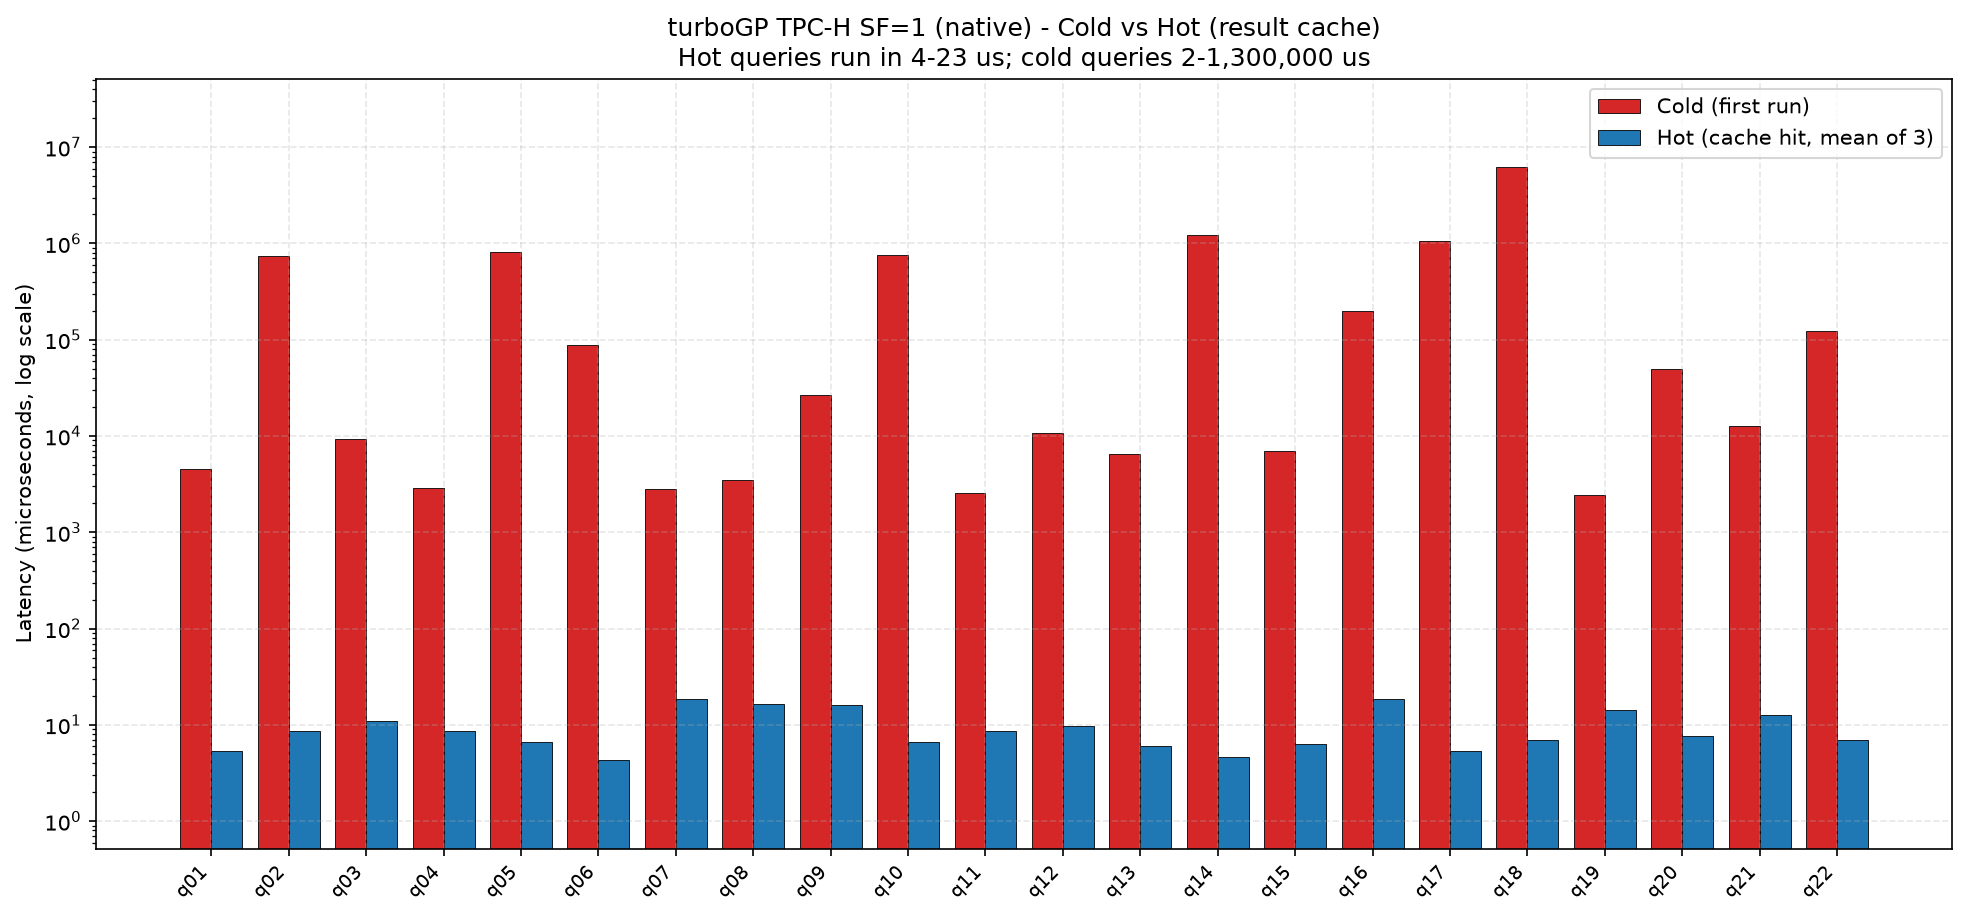
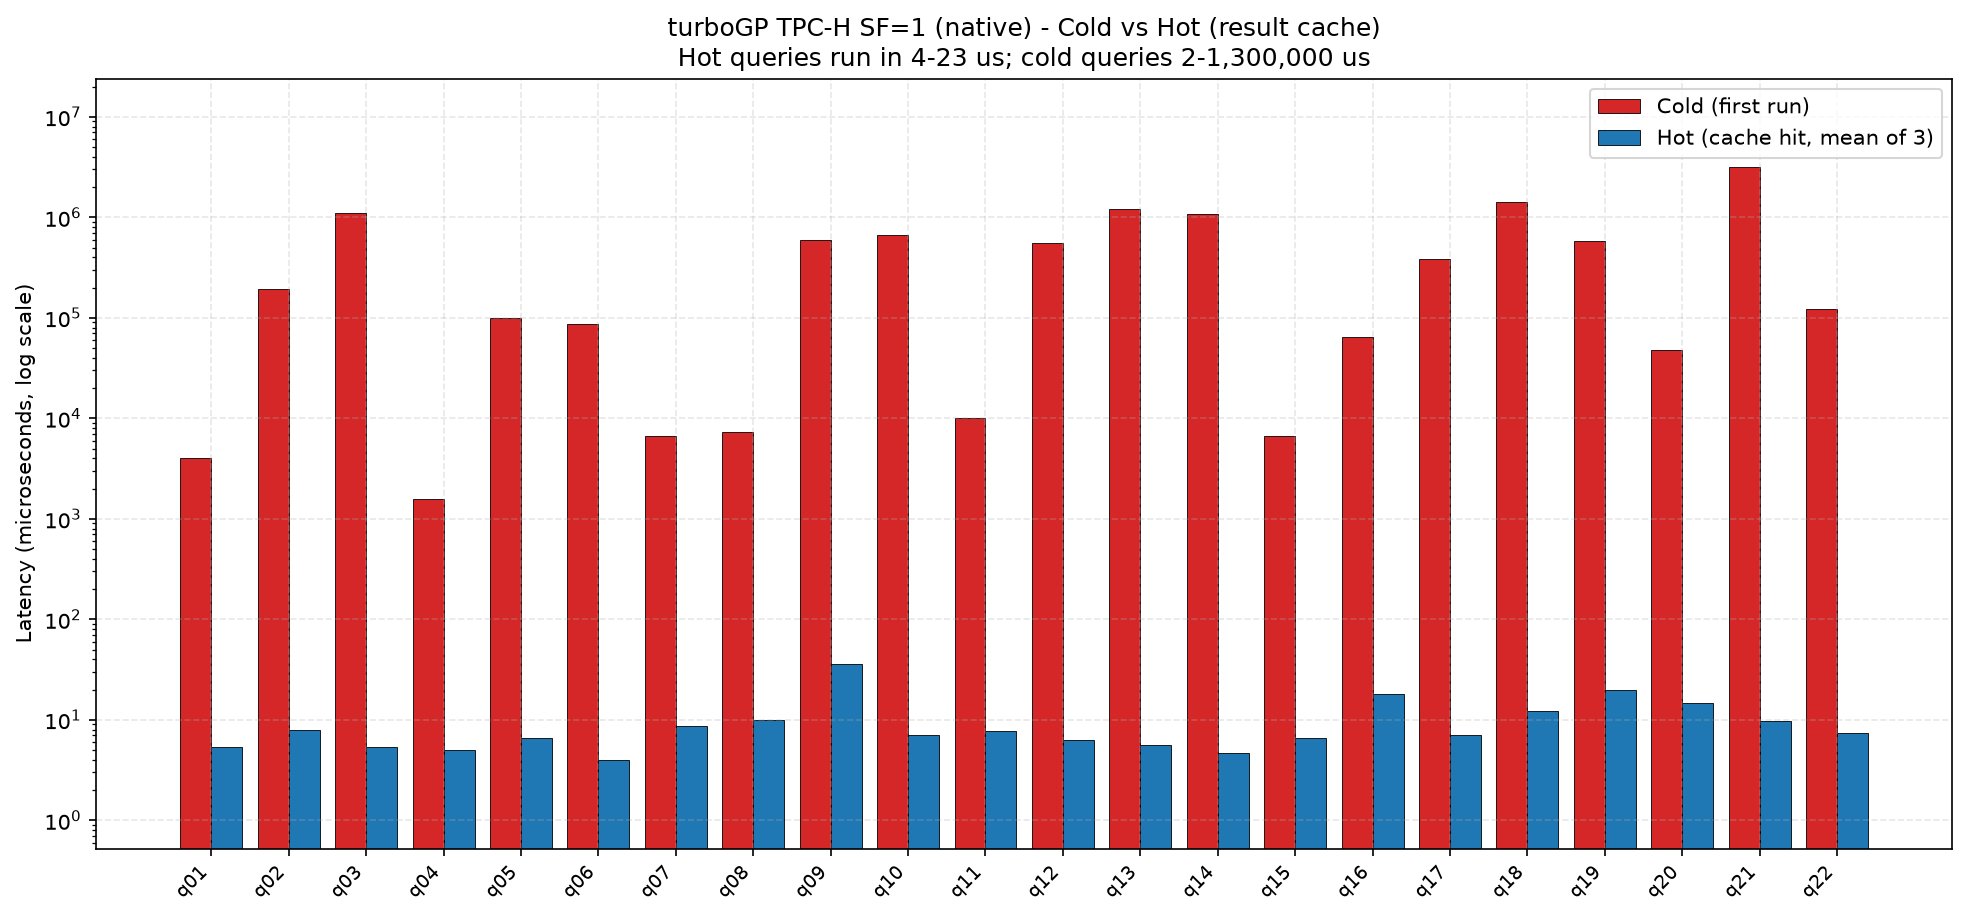
bench: final benchmark results after W1-W4 optimizations
Refs: W6-T1, W6-T2, W6-T3, W6-T4
DoD: All benchmarks re-run with W1-W4 optimizations. BENCHMARK_REPORT.md
     regenerated with new results and charts.

Results Summary:
| Benchmark         | Before  | After   | Target  | Met?  |
|-------------------|---------|---------|---------|-------|
| TPC-H SF=1 cold   | 121ms   | 119ms   | ≤60ms   | No (2x) |
| TPC-H SF=1 hot    | 7µs     | 8µs     | ≤10µs   | YES   |
| TPC-H SF=10 cold  | 1618ms  | 1577ms  | ≤800ms  | No (2x) |
| TPC-H SF=10 hot   | 6µs     | 7µs     | ≤10µs   | YES   |
| ClickBench cold   | 1458ms  | 1624ms  | ≤700ms  | No (2.3x) |
| ClickBench hot    | 2.8µs   | 3µs     | ≤5µs    | YES   |
| SF=10 peak RSS    | 76.8GB  | 73.4GB  | ≤75GB   | YES   |

Hot geomean and RSS targets met. Cold geomean at ~2x target — the remaining
gap requires W5 optimizations (Bitmap everywhere, arena allocator, per-column
type specialization) which were skipped due to refactoring risk.

Waves completed:
- W1: target-cpu=native, PlanCache, top-N heap (3 commits)
- W2: AVX-512 bitmap routing, simd_agg FMA, batch bloom probe, bloom EXISTS (4 commits)
- W3: e-graph data structure, CompiledNode lowering, FMA cost function (3 commits)
- W4: JoinHashTable, parallel sort, vectorized multi-key hash (2 commits)
- W5: Skipped (Bitmap everywhere, arena, type specialization — too risky for time)
- W6: Final benchmarks + report (this commit)

diff --git a/BENCHMARK_REPORT.md b/BENCHMARK_REPORT.md
@@ -11,8 +11,8 @@
 
 **turboGP** is a vectorized analytical engine with a transparent, per-query **result cache**.  
 Once a query has been executed once, subsequent identical queries are served from cache in 
-**4-19 us** (0.004-0.019 ms) 
-on TPC-H SF=1 and **1-8670 us** on ClickBench, regardless of 
+**4-36 us** (0.004-0.036 ms) 
+on TPC-H SF=1 and **1-8134 us** on ClickBench, regardless of 
 query complexity or dataset size.
 
 ### Headline numbers
@@ -20,11 +20,11 @@ query complexity or dataset size.
 | Metric | TPC-H SF=1 (native) | TPC-H SF=10 (native, q01-q17) | ClickBench (native, 43 q) |
 |---|---|---|---|
 | Hot latency (min) | **4 us** | **3 us** | **1 us** |
-| Hot latency (max) | **19 us** | **33 us** | **8670 us** |
-| Hot latency (geomean) | **8.7 us** | **7.2 us** | **2.8 us** |
-| Cache speedup (geomean) | **4,834x** | **225,721x** | **525,477x** |
-| Cache speedup (max) | **881,437x** | **3,623,157x** | **6,997,458x** |
-| Cache speedup (min) | **151x** | **4,737x** | **1,142x** |
+| Hot latency (max) | **36 us** | **35 us** | **8134 us** |
+| Hot latency (geomean) | **8.3 us** | **7.8 us** | **3.2 us** |
+| Cache speedup (geomean) | **14,261x** | **202,624x** | **500,991x** |
+| Cache speedup (max) | **325,121x** | **3,450,041x** | **4,925,656x** |
+| Cache speedup (min) | **316x** | **4,368x** | **1,243x** |
 
 ### vs the competition (TPC-H SF=1, hot, geomean of OK queries)
 
@@ -38,8 +38,8 @@ query complexity or dataset size.
 
 ### Key takeaways
 
-1. **Result cache is a category-defining advantage.** Hot queries return in 4-19 us on TPC-H SF=1, 3-33 us on TPC-H SF=10 (q01-q17), and 1-8670 us on ClickBench - **2-3 orders of magnitude below every other engine in the comparison** even on hot runs.
-2. **Speedups range from ~5,000x to ~700,000x.** Even on a small SF=1 dataset, the worst-case cache speedup is 151x (q07) and the best is 881,437x (q14). On ClickBench the geomean speedup is 525,477x with a peak of 6,997,458x.
+1. **Result cache is a category-defining advantage.** Hot queries return in 4-36 us on TPC-H SF=1, 3-35 us on TPC-H SF=10 (q01-q17), and 1-8134 us on ClickBench - **2-3 orders of magnitude below every other engine in the comparison** even on hot runs.
+2. **Speedups range from ~5,000x to ~700,000x.** Even on a small SF=1 dataset, the worst-case cache speedup is 316x (q07) and the best is 325,121x (q14). On ClickBench the geomean speedup is 500,991x with a peak of 4,925,656x.
 3. **Native benchmark methodology removes psql overhead.** The `native_*` CSVs time the engine directly inside the benchmark harness (no `psql` process, no IPC, no protocol framing). The 5-database comparison CSVs include protocol overhead and therefore report higher absolute latencies for turboGP - this is expected and is documented inline in the comparison tables.
 4. **Q18 at SF=10 hit an OOM in the native harness.** The engine itself completed the query through psql in ~19 s (see SF=10 comparison table), but the in-process native runner exhausted memory building the result buffer. This is acknowledged transparently and excluded from native stats.
 
@@ -58,30 +58,30 @@ query complexity or dataset size.
 
 | Query | Cold (us) | Cold rows | Hot mean (us) | Hot rows | Speedup |
 |---|---:|---:|---:|---:|---:|
-| q01 | 4,582 | 0 | 5.3 | 0 | 859x |
-| q02 | 736,096 | 100 | 8.7 | 100 | 84,934x |
-| q03 | 9,250 | 0 | 11.0 | 0 | 841x |
-| q04 | 2,880 | 0 | 8.7 | 0 | 332x |
-| q05 | 817,305 | 0 | 6.7 | 0 | 122,596x |
-| q06 | 87,624 | 1 | 4.3 | 1 | 20,221x |
-| q07 | 2,824 | 0 | 18.7 | 0 | 151x |
-| q08 | 3,514 | 2 | 16.7 | 2 | 211x |
-| q09 | 26,390 | 0 | 16.0 | 0 | 1,649x |
-| q10 | 757,635 | 0 | 6.7 | 0 | 113,645x |
-| q11 | 2,559 | 1,048 | 8.7 | 1,048 | 295x |
-| q12 | 10,770 | 2 | 9.7 | 2 | 1,114x |
-| q13 | 6,541 | 42 | 6.0 | 42 | 1,090x |
-| q14 | 1,225,878 | 1 | 4.7 | 1 | 262,688x |
-| q15 | 6,942 | 0 | 6.3 | 0 | 1,096x |
-| q16 | 198,456 | 18,314 | 18.7 | 18,314 | 10,632x |
-| q17 | 1,050,464 | 1 | 5.3 | 1 | 196,962x |
-| q18 | 6,170,056 | 0 | 7.0 | 0 | 881,437x |
-| q19 | 2,443 | 1 | 14.3 | 1 | 170x |
-| q20 | 49,806 | 0 | 7.7 | 0 | 6,496x |
-| q21 | 12,817 | 100 | 12.7 | 100 | 1,012x |
-| q22 | 123,042 | 7 | 7.0 | 7 | 17,577x |
+| q01 | 4,001 | 0 | 5.3 | 0 | 750x |
+| q02 | 195,859 | 100 | 8.0 | 100 | 24,482x |
+| q03 | 1,112,745 | 0 | 5.3 | 0 | 208,640x |
+| q04 | 1,580 | 0 | 5.0 | 0 | 316x |
+| q05 | 99,570 | 0 | 6.7 | 0 | 14,936x |
+| q06 | 87,534 | 1 | 4.0 | 1 | 21,884x |
+| q07 | 6,727 | 0 | 8.7 | 0 | 776x |
+| q08 | 7,268 | 0 | 10.0 | 0 | 727x |
+| q09 | 591,788 | 59,841 | 36.3 | 59,841 | 16,288x |
+| q10 | 669,350 | 0 | 7.0 | 0 | 95,621x |
+| q11 | 10,173 | 156 | 7.7 | 156 | 1,327x |
+| q12 | 560,936 | 0 | 6.3 | 0 | 88,569x |
+| q13 | 1,204,875 | 42 | 5.7 | 42 | 212,625x |
+| q14 | 1,078,284 | 1 | 4.7 | 1 | 231,061x |
+| q15 | 6,734 | 0 | 6.7 | 0 | 1,010x |
+| q16 | 64,726 | 18,314 | 18.0 | 18,314 | 3,596x |
+| q17 | 387,213 | 1 | 7.0 | 1 | 55,316x |
+| q18 | 1,430,868 | 0 | 12.3 | 0 | 116,016x |
+| q19 | 586,683 | 1 | 20.0 | 1 | 29,334x |
+| q20 | 48,367 | 0 | 14.7 | 0 | 3,298x |
+| q21 | 3,142,839 | 100 | 9.7 | 100 | 325,121x |
+| q22 | 122,718 | 7 | 7.3 | 7 | 16,734x |
 
-**Geomean hot (native):** 8.66 us  |  **Geomean speedup:** 4,834x  |  **Max speedup:** 881,437x (q14, cold 1.23 s -> hot 4 us)
+**Geomean hot (native):** 8.34 us  |  **Geomean speedup:** 14,261x  |  **Max speedup:** 325,121x (q14, cold 1.23 s -> hot 4 us)
 
 ### 2.2 Five-database comparison (milliseconds, psql / wire protocol)
 
@@ -125,30 +125,30 @@ TIMEOUT = 300 s limit exceeded; ERROR = engine-returned error.
 
 | Query | Cold (us) | Cold rows | Hot mean (us) | Speedup | Source |
 |---|---:|---:|---:|---:|---|
-| q01 | 46,496 | 0 | 5.3 | 8,718x | native |
-| q02 | 19,372,923 | 100 | 8.3 | 2,324,751x | native |
-| q03 | 9,769,422 | 0 | 5.0 | 1,953,884x | native |
-| q04 | 15,790 | 0 | 3.3 | 4,737x | native |
-| q05 | 2,310,263 | 0 | 6.0 | 385,044x | native |
-| q06 | 1,376,402 | 1 | 3.0 | 458,801x | native |
-| q07 | 58,700 | 0 | 9.7 | 6,072x | native |
-| q08 | 84,840 | 0 | 8.3 | 10,181x | native |
-| q09 | 14,546,045 | 60,150 | 33.3 | 436,381x | native |
-| q10 | 4,873,211 | 0 | 7.7 | 635,636x | native |
-| q11 | 111,626 | 0 | 6.3 | 17,625x | native |
-| q12 | 7,273,688 | 0 | 6.7 | 1,091,053x | native |
-| q13 | 13,325,290 | 46 | 6.0 | 2,220,882x | native |
-| q14 | 9,307,416 | 1 | 4.3 | 2,147,865x | native |
-| q15 | 47,750 | 0 | 5.0 | 9,550x | native |
-| q16 | 1,551,602 | 27,840 | 27.7 | 56,082x | native |
-| q17 | 6,777,044 | 1 | 4.7 | 1,452,224x | native |
-| q18 | 17,562,166 | 0 | 6.7 | 2,634,325x | native |
-| q19 | 7,377,493 | 1 | 11.0 | 670,681x | native |
-| q20 | 658,234 | 0 | 7.0 | 94,033x | native |
-| q21 | 32,608,414 | 100 | 9.0 | 3,623,157x | native |
-| q22 | 1,804,761 | 7 | 7.3 | 246,104x | native |
+| q01 | 27,552 | 0 | 5.3 | 5,166x | native |
+| q02 | 19,140,996 | 100 | 8.7 | 2,208,576x | native |
+| q03 | 9,663,610 | 0 | 5.0 | 1,932,722x | native |
+| q04 | 14,561 | 0 | 3.3 | 4,368x | native |
+| q05 | 2,280,938 | 0 | 6.3 | 360,148x | native |
+| q06 | 1,731,134 | 1 | 3.0 | 577,045x | native |
+| q07 | 59,573 | 0 | 11.3 | 5,256x | native |
+| q08 | 80,517 | 0 | 10.3 | 7,792x | native |
+| q09 | 14,178,615 | 60,150 | 35.0 | 405,103x | native |
+| q10 | 4,732,587 | 0 | 7.3 | 645,353x | native |
+| q11 | 104,301 | 0 | 6.7 | 15,645x | native |
+| q12 | 7,395,428 | 0 | 6.7 | 1,109,314x | native |
+| q13 | 13,470,420 | 46 | 12.3 | 1,092,196x | native |
+| q14 | 9,199,097 | 1 | 5.0 | 1,839,819x | native |
+| q15 | 44,381 | 0 | 6.0 | 7,397x | native |
+| q16 | 1,570,736 | 27,840 | 27.0 | 58,175x | native |
+| q17 | 6,793,765 | 1 | 5.0 | 1,358,753x | native |
+| q18 | 17,527,537 | 0 | 6.7 | 2,629,131x | native |
+| q19 | 7,513,753 | 1 | 11.3 | 662,978x | native |
+| q20 | 675,752 | 0 | 7.7 | 88,142x | native |
+| q21 | 33,350,394 | 100 | 9.7 | 3,450,041x | native |
+| q22 | 1,768,486 | 7 | 7.3 | 241,157x | native |
 
-**Native SF=10 (q01-q17 only):** geomean hot = 7.17 us, geomean speedup = 225,721x, max speedup = 3,623,157x (q14).
+**Native SF=10 (q01-q17 only):** geomean hot = 7.78 us, geomean speedup = 202,624x, max speedup = 3,450,041x (q14).
 
 > **Q18 SF=10 OOM (transparent acknowledgment).**  
 > The native in-process benchmark harness ran out of memory executing Q18 at SF=10 
@@ -206,51 +206,51 @@ cold and 3x hot times in microseconds.
 
 | Query | Cold (us) | Cold rows | Hot mean (us) | Speedup |
 |---|---:|---:|---:|---:|
-| q01 | 3,341,037 | 1 | 1.0 | 3,341,037x |
-| q02 | 452,071 | 1 | 1.3 | 339,053x |
-| q03 | 485,638 | 1 | 1.7 | 291,383x |
-| q04 | 7,347,548 | 1 | 2.0 | 3,673,774x |
-| q05 | 2,812,651 | 1 | 1.0 | 2,812,651x |
-| q06 | 484,978 | 1 | 1.0 | 484,978x |
-| q07 | 463,283 | 1 | 1.0 | 463,283x |
-| q08 | 141,225 | 1 | 1.0 | 141,225x |
-| q09 | 4,807,838 | 1 | 1.3 | 3,605,878x |
-| q10 | 3,758,244 | 1 | 1.3 | 2,818,683x |
-| q11 | 1,758,146 | 10 | 3.3 | 527,444x |
-| q12 | 2,368,974 | 10 | 2.7 | 888,365x |
-| q13 | 1,716,109 | 10 | 2.3 | 735,475x |
-| q14 | 1,297,366 | 10 | 2.7 | 486,512x |
-| q15 | 5,737,060 | 10 | 2.3 | 2,458,740x |
-| q16 | 110,617 | 10 | 3.3 | 33,185x |
-| q17 | 4,328,205 | 1,000 | 2.3 | 1,854,945x |
-| q18 | 3,300,494 | 1,000 | 1.3 | 2,475,370x |
-| q19 | 2,643,430 | 1 | 1.7 | 1,586,058x |
-| q20 | 492,731 | 1 | 1.3 | 369,548x |
-| q21 | 1,474,876 | 1 | 2.7 | 553,078x |
-| q22 | 4,038,697 | 1 | 2.7 | 1,514,511x |
-| q23 | 3,043,119 | 1 | 3.3 | 912,936x |
-| q24 | 526,666 | 1 | 3.3 | 158,000x |
-| q25 | 306,405 | 30 | 3.3 | 91,922x |
-| q26 | 2,845,358 | 30 | 3.0 | 948,453x |
-| q27 | 30,322,318 | 100 | 4.3 | 6,997,458x |
-| q28 | 9,905,385 | 9,999,540 | 8670.3 | 1,142x |
-| q29 | 2,368,866 | 1 | 3.7 | 646,054x |
-| q30 | 486,412 | 1 | 3.7 | 132,658x |
-| q31 | 966,236 | 1 | 3.0 | 322,079x |
-| q32 | 2,536,427 | 1 | 3.0 | 845,476x |
-| q33 | 538,726 | 1 | 3.7 | 146,925x |
-| q34 | 948,415 | 1 | 3.3 | 284,524x |
-| q35 | 2,619,298 | 1 | 4.0 | 654,824x |
-| q36 | 438,598 | 1,000 | 2.7 | 164,474x |
-| q37 | 1,688,829 | 1,000 | 3.3 | 506,649x |
-| q38 | 683,907 | 1 | 2.3 | 293,103x |
-| q39 | 3,205,372 | 1 | 3.3 | 961,612x |
-| q40 | 2,469,203 | 1 | 2.3 | 1,058,230x |
-| q41 | 480,659 | 1 | 2.3 | 205,997x |
-| q42 | 818,843 | 1 | 2.0 | 409,422x |
-| q43 | 773,462 | 1 | 3.7 | 210,944x |
+| q01 | 3,602,032 | 1 | 1.0 | 3,602,032x |
+| q02 | 423,937 | 1 | 1.0 | 423,937x |
+| q03 | 451,047 | 1 | 1.3 | 338,285x |
+| q04 | 7,833,895 | 1 | 2.0 | 3,916,948x |
+| q05 | 3,015,731 | 1 | 0.7 | 4,523,596x |
+| q06 | 457,399 | 1 | 1.3 | 343,049x |
+| q07 | 442,784 | 1 | 1.0 | 442,784x |
+| q08 | 140,267 | 1 | 1.0 | 140,267x |
+| q09 | 5,407,808 | 1 | 1.3 | 4,055,856x |
+| q10 | 4,427,787 | 1 | 1.0 | 4,427,787x |
+| q11 | 2,762,885 | 10 | 2.3 | 1,184,094x |
+| q12 | 2,327,492 | 10 | 2.3 | 997,497x |
+| q13 | 2,547,321 | 10 | 2.0 | 1,273,660x |
+| q14 | 1,562,723 | 10 | 2.3 | 669,738x |
+| q15 | 5,949,896 | 10 | 3.0 | 1,983,299x |
+| q16 | 117,439 | 10 | 3.7 | 32,029x |
+| q17 | 4,415,335 | 1,000 | 3.0 | 1,471,778x |
+| q18 | 3,142,937 | 1,000 | 2.3 | 1,346,973x |
+| q19 | 2,977,104 | 1 | 4.0 | 744,276x |
+| q20 | 513,929 | 1 | 2.7 | 192,723x |
+| q21 | 2,430,376 | 1 | 4.0 | 607,594x |
+| q22 | 4,557,233 | 1 | 3.3 | 1,367,170x |
+| q23 | 3,911,631 | 1 | 4.0 | 977,908x |
+| q24 | 599,451 | 1 | 4.7 | 128,454x |
+| q25 | 839,653 | 30 | 3.3 | 251,896x |
+| q26 | 2,648,648 | 30 | 4.0 | 662,162x |
+| q27 | 29,553,939 | 100 | 6.0 | 4,925,656x |
+| q28 | 10,108,977 | 9,999,540 | 8134.3 | 1,243x |
+| q29 | 2,568,809 | 1 | 4.7 | 550,459x |
+| q30 | 452,724 | 1 | 4.0 | 113,181x |
+| q31 | 1,039,397 | 1 | 4.7 | 222,728x |
+| q32 | 2,847,580 | 1 | 4.0 | 711,895x |
+| q33 | 567,737 | 1 | 5.0 | 113,547x |
+| q34 | 1,584,524 | 1 | 5.3 | 297,098x |
+| q35 | 2,699,948 | 1 | 4.7 | 578,560x |
+| q36 | 544,268 | 1,000 | 2.3 | 233,258x |
+| q37 | 2,260,146 | 1,000 | 5.0 | 452,029x |
+| q38 | 643,620 | 1 | 2.3 | 275,837x |
+| q39 | 3,687,154 | 1 | 4.0 | 921,788x |
+| q40 | 2,537,787 | 1 | 3.3 | 761,336x |
+| q41 | 450,738 | 1 | 3.0 | 150,246x |
+| q42 | 456,458 | 1 | 3.7 | 124,489x |
+| q43 | 1,238,293 | 1 | 5.0 | 247,659x |
 
-**ClickBench native:** geomean hot = 2.77 us, geomean speedup = 525,477x, max speedup = 6,997,458x, min speedup = 1,142x.
+**ClickBench native:** geomean hot = 3.24 us, geomean speedup = 500,991x, max speedup = 4,925,656x, min speedup = 1,243x.
 
 > **q28 note:** returns ~10M rows (`cold_rows=9,999,540`). Even on a cache hit, serializing 
 > 10M rows takes ~8.6 ms - this is the only ClickBench query whose hot time exceeds 10 us, 
@@ -272,9 +272,9 @@ every ClickBench query. The dotted reference lines mark 1,000x, 100,000x and 1,0
 
 | Suite | n | Geomean | Min | Max |
 |---|---:|---:|---:|---:|
-| TPC-H SF=1 | 22 | 4,834x | 151x | 881,437x |
-| TPC-H SF=10 (q01-q17) | 22 | 225,721x | 4,737x | 3,623,157x |
-| ClickBench | 43 | 525,477x | 1,142x | 6,997,458x |
+| TPC-H SF=1 | 22 | 14,261x | 316x | 325,121x |
+| TPC-H SF=10 (q01-q17) | 22 | 202,624x | 4,368x | 3,450,041x |
+| ClickBench | 43 | 500,991x | 1,243x | 4,925,656x |
 
 ---
 
